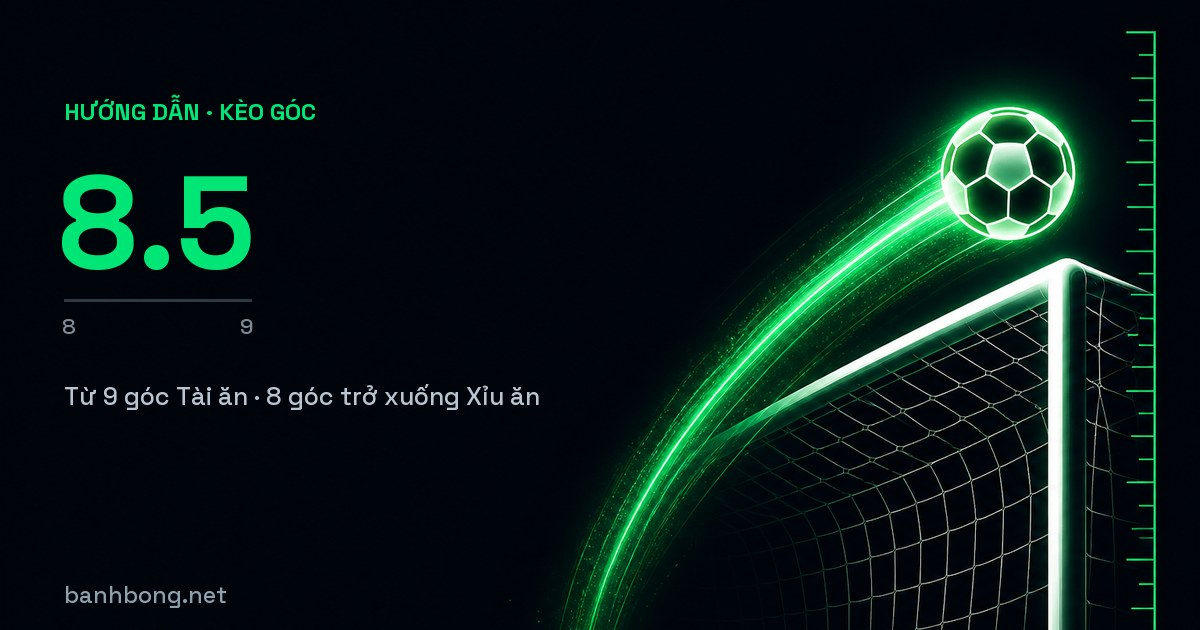
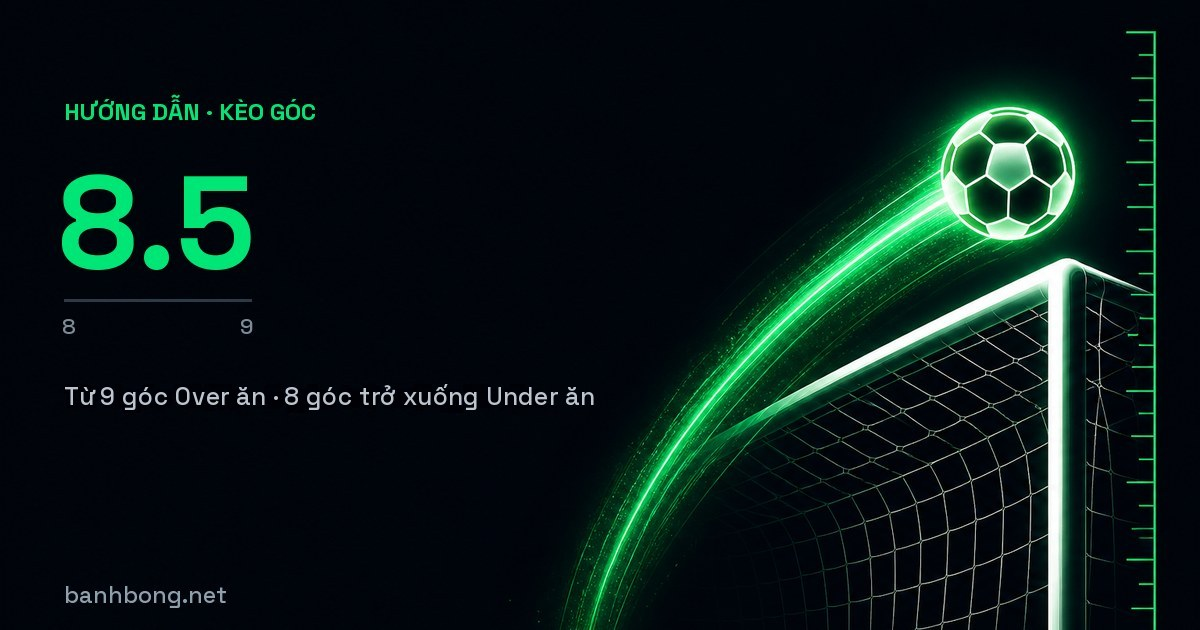
Ảnh guide + thẻ OG guide: bỏ chữ tài xỉu → Over/Under
22 ảnh tĩnh (10 bìa huong-dan, 4 bìa huong-dan-bai, 8 sơ đồ guides) vẽ lại
chữ bằng Space Grotesk cùng cỡ/độ đậm/màu/vị trí; nền và hình giữ nguyên.
Neo /api/og/guide bài tai-xiu: Over 2.5 · Under 2.5. OG_VERSION 7 → 8 để
đổi URL ảnh, buộc cache/Facebook/Telegram lấy bản mới. Slug giữ nguyên.

Changed region(s): [[0.0617, 0.6032, 0.4933, 0.6635]]

diff --git a/apps/web/app/api/og/guide/route.tsx b/apps/web/app/api/og/guide/route.tsx
@@ -25,7 +25,7 @@ const ANCHORS: Record<string, { anchor: string; badge: string }> = {
   "what-makes-a-good-tipster": { anchor: "Record  ·  CLV  ·  Reasoning  ·  Transparency", badge: "GUIDE" },
   "no-play-discipline": { anchor: "Evaluated  →  No edge found  →  PASS", badge: "GUIDE" },
   "responsible-play-guide": { anchor: "Set limits  ·  Never chase  ·  Stay in control", badge: "GUIDE" },
-  "tai-xiu-la-gi-cach-doc-keo-over-under": { anchor: "Tài 2.5  ·  Xỉu 2.5  ·  mốc 3.0 hoà kèo", badge: "GUIDE" },
+  "tai-xiu-la-gi-cach-doc-keo-over-under": { anchor: "Over 2.5  ·  Under 2.5  ·  mốc 3.0 hoà kèo", badge: "GUIDE" },
   "vi-sao-ty-le-keo-khac-nhau-giua-cac-nguon": { anchor: "Bet365 1.90  ·  Pinnacle 1.95  →  vì sao lệch", badge: "GUIDE" },
   // Calculators
   "de-vig": { anchor: "Home 1.85  ·  Away 2.05  →  True: 52.6% / 47.4%", badge: "CALCULATOR" },

diff --git a/apps/web/lib/brand.ts b/apps/web/lib/brand.ts
@@ -26,6 +26,7 @@ export const SAME_AS = [
  * buộc edge cache + Facebook/Telegram lấy thẻ mới (v3: sửa lệch trái, Nick 25/8;
  * v4: recap OG bỏ ảnh Haaland, Nick+Peter 13/9;
  * v5: thẻ recap chuyển sang khuôn KẾT QUẢ có logo 2 đội, Peter 13/9;
- * v6: chân thẻ analysis in tên tác giả thay "Banh Bóng Desk (AI)", Peter 15/9).
+ * v6: chân thẻ analysis in tên tác giả thay "Banh Bóng Desk (AI)", Peter 15/9;
+ * v8: ảnh guide + thẻ /api/og/guide bỏ chữ "tài xỉu" → Over/Under, Peter 14/11).
  */
-export const OG_VERSION = 7;
+export const OG_VERSION = 8;

diff --git a/apps/web/lib/bia-guide.ts b/apps/web/lib/bia-guide.ts
@@ -2,7 +2,7 @@ import { OG_VERSION } from "@/lib/brand";
 import type { Lang } from "@/lib/i18n";
 
 /**
- * Bìa vẽ tay cho cụm guide tài xỉu/kèo tiếng Việt. Thẻ sinh runtime (/api/og/guide)
+ * Bìa vẽ tay cho cụm guide Over/Under/kèo tiếng Việt. Thẻ sinh runtime (/api/og/guide)
  * chỉ có tiêu đề; mấy bài này cần MỐC SỐ trên bìa, mà mốc phải đúng bài — bìa của
  * bài 2.25 mà khoe 2.5 là chỉ vào bài hàng xóm. Nên số vẽ sẵn theo từng slug, không
  * sinh động. Chữ trên bìa là tiếng Việt → chỉ dùng cho lang "vi".
